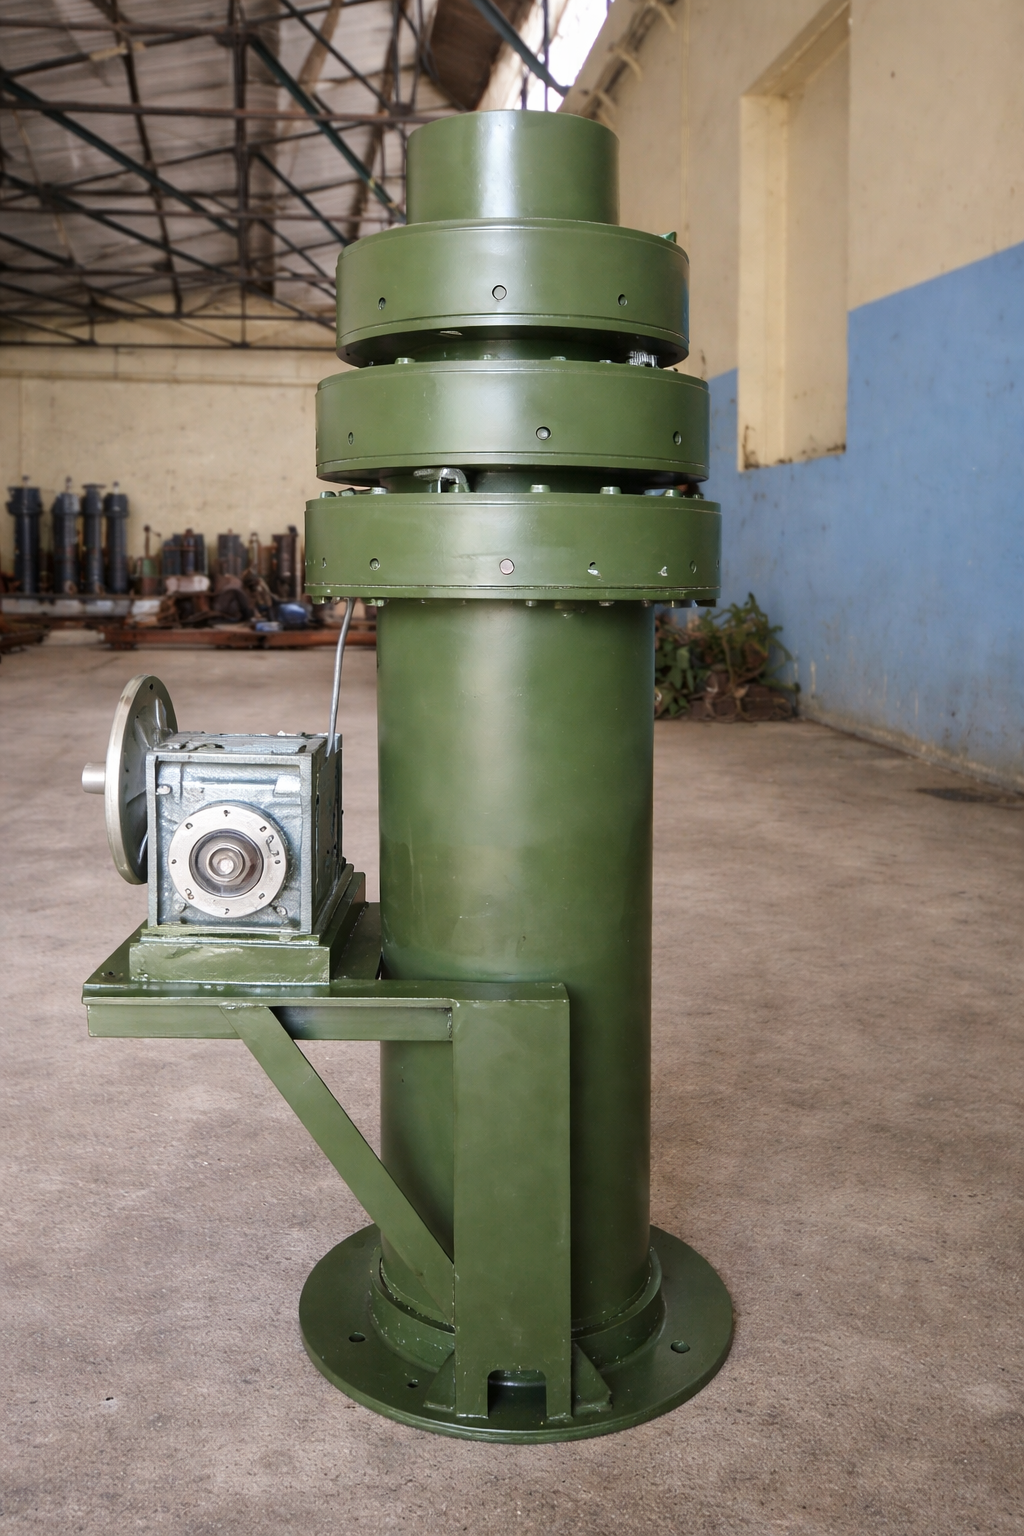
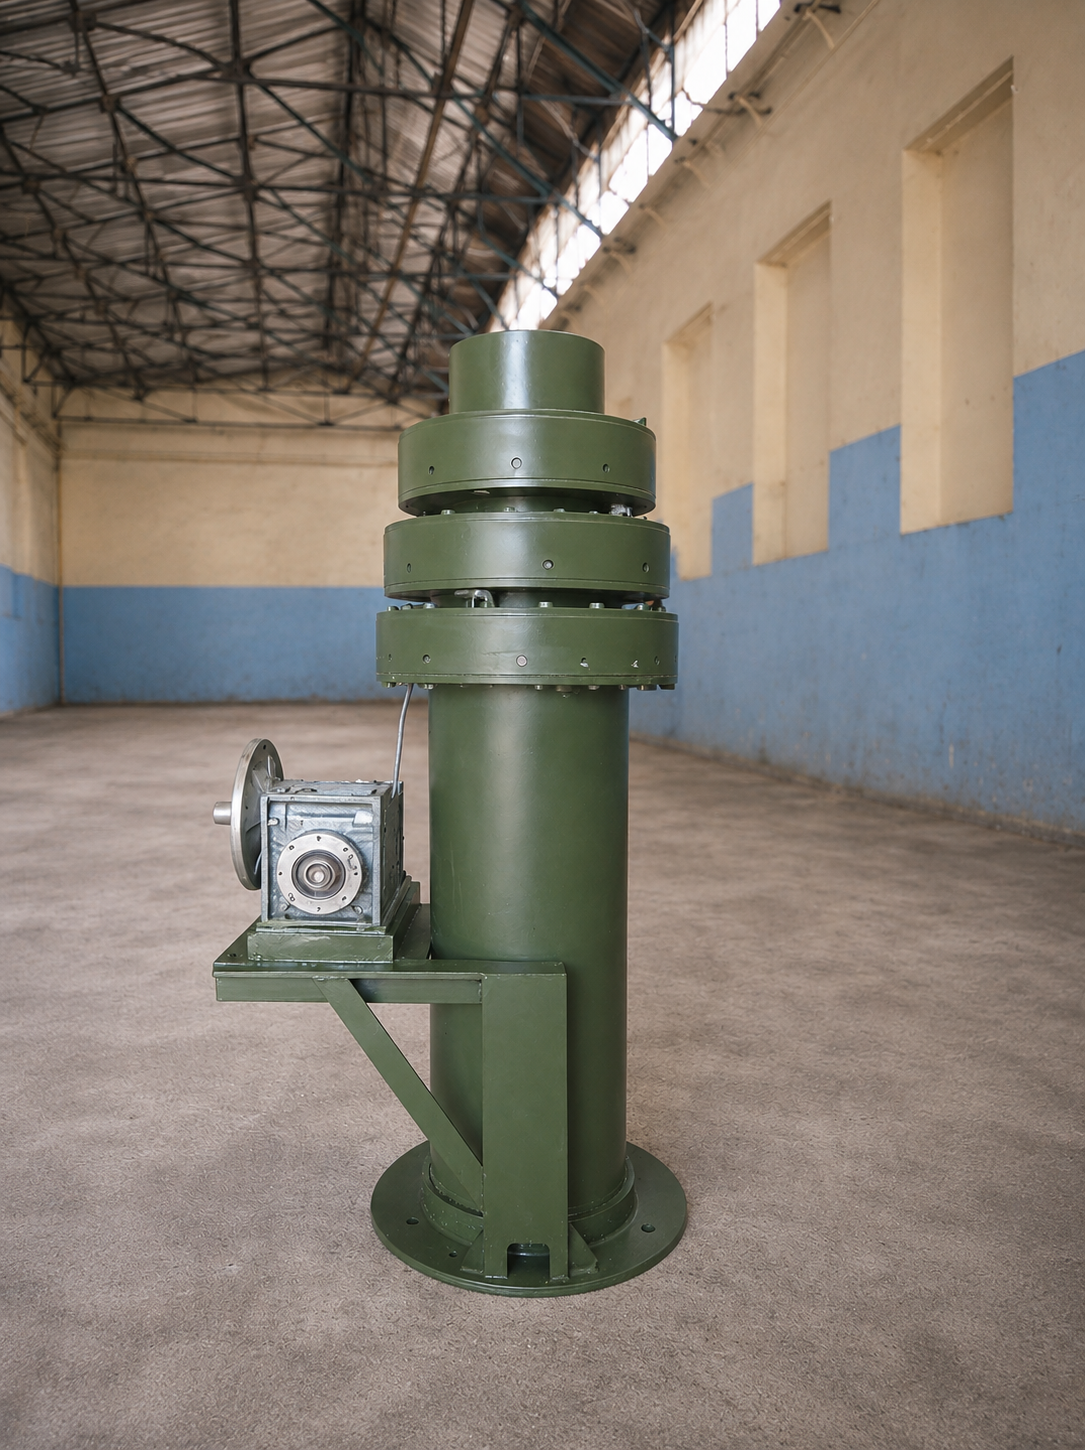
feat: use object-cover for resized 1080x960 telescopic mast images

diff --git a/src/components/ui/ProjectCard.tsx b/src/components/ui/ProjectCard.tsx
@@ -45,6 +45,8 @@ const ProjectCard = ({ project, index }: ProjectCardProps) => {
             className={`w-full h-full object-center transition-transform duration-700 ease-out group-hover:scale-105 ${
               project.category === "Aerospace and Defence Components" || 
               project.img.includes("DRDOProducts") ||
+              project.img.includes("5m_telescopic_mast") ||
+              project.img.includes("Inverted Telescopic Mast") ||
               /plc operated article loading/i.test(project.img)
                 ? "object-cover"
                 : "object-contain"
